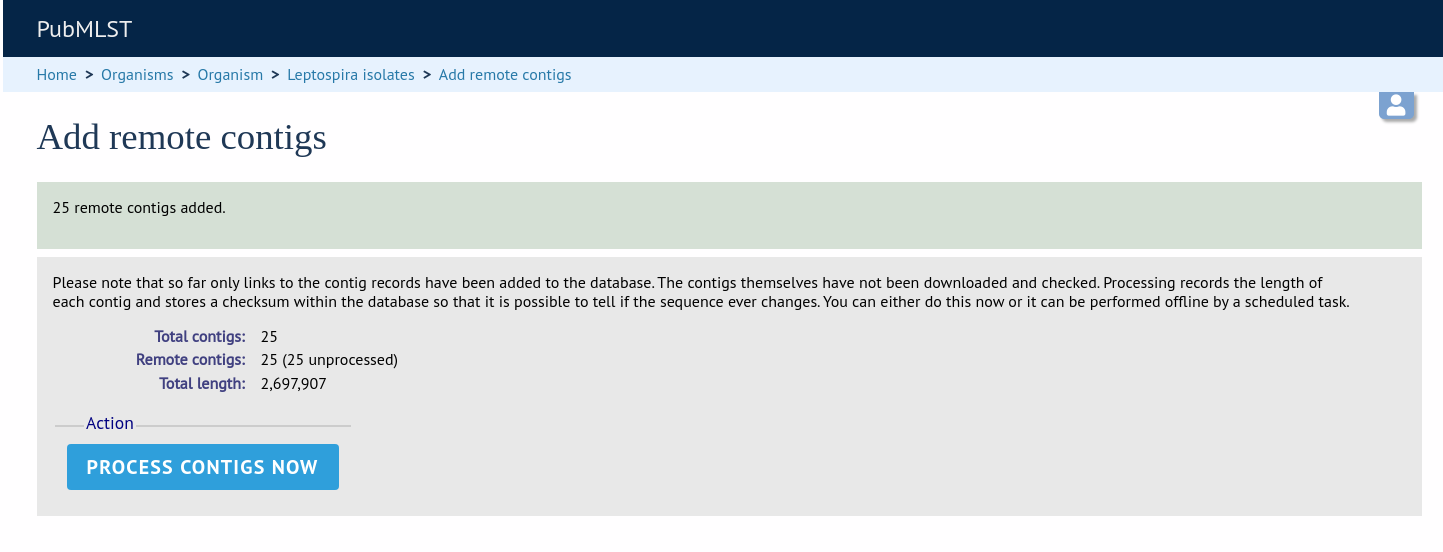
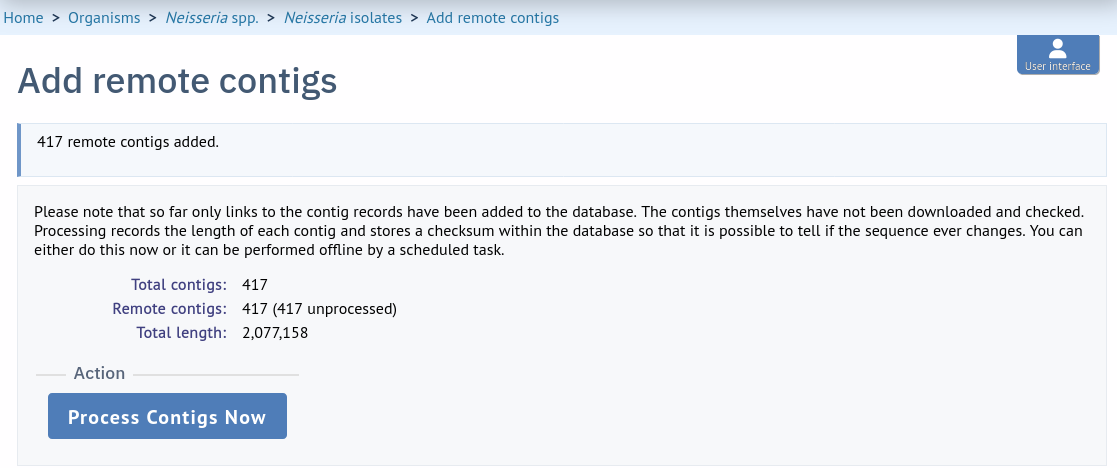
More screenshots for curation.

diff --git a/curator_guide/0170_linking_remote_contigs.rst b/curator_guide/0170_linking_remote_contigs.rst
@@ -21,7 +21,7 @@ Click the sequences link icon on the curator's main page.
 Either select the isolate id from the dropdown list, or enter it manually 
 (list is disabled if there are >1000 records in the database). Enter the URI
 for the RESTful API of the parent isolate record, e.g. 
-http://rest.pubmlst.org/db/pubmlst_rmlst_isolates/isolates/11492. This URI can
+https://rest.pubmlst.org/db/pubmlst_rmlst_isolates/isolates/11492. This URI can
 require authentication if credentials have been 
 :ref:`set up<oauth_remote_contigs>`.
 